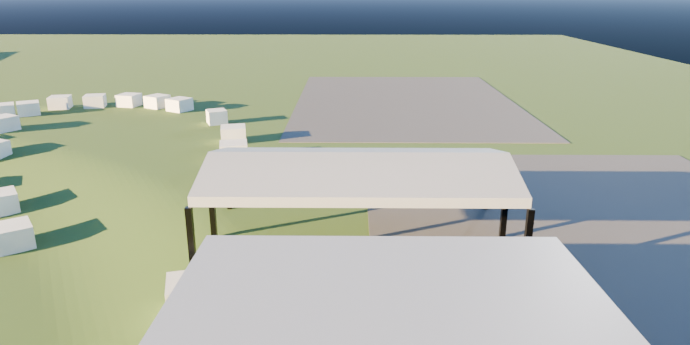
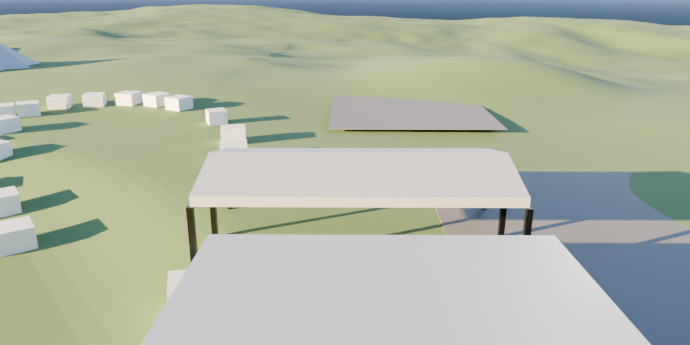
Atualiza os quadros de conferencia com o relevo e os lugares novos
Vinte e dois quadros, um por bloco do roteiro, agora com o terreno medido, o
Recinto de Leiloes, a Pista de Julgamentos e a Fazendinha na cena. A porteira
da Fazendinha passou para a ponta de cima da faixa, que e por onde o percurso
desce -- porteira de destaque na saida nao cumpre o papel.

Claude-Session: https://claude.ai/code/session_01Cr48auUeVceFnmb5xw1uAP

diff --git a/scripts/build_scene.py b/scripts/build_scene.py
@@ -131,7 +131,7 @@ PERCURSO = [
     dict(bloco="12", nome="Expositores Externos", titulo="Expositores Externo",
          altura=30.0, recuo=80.0, pausa=1.5),
     dict(bloco="13", nome="Fazendinha", titulo="Fazendinha",
-         altura=15.0, recuo=45.0, pausa=3.5),
+         altura=20.0, recuo=60.0, alvo=5.0, pausa=3.5),
     dict(bloco="14", nome="Maquinas e Implementos",
          titulo="Exposição de Máquinas", altura=22.0, recuo=70.0, pausa=1.5),
     # Unico bloco sem rotulo e sem titulo: a prancha marca os veiculos so pela
@@ -754,8 +754,12 @@ def construir_fazendinha(dados, col, mats, centro_arena):
 
     # Porteira: dois esteios, travessa e placa. O nome vai grande na placa e a
     # descricao pequena embaixo -- hierarquia pedida nominalmente pelo cliente.
-    frente_x = x - math.sin(ang) * (prof / 2)
-    frente_y = y + math.cos(ang) * (prof / 2)
+    #
+    # Fica na ponta de CIMA da faixa, a que olha para os expositores externos:
+    # e por ali que o percurso desce, e porteira de destaque so cumpre o papel
+    # se estiver na chegada. Na ponta de baixo ela ficaria de costas.
+    frente_x = x + math.sin(ang) * (prof / 2)
+    frente_y = y - math.cos(ang) * (prof / 2)
     solo = elevacao(frente_x, frente_y, centro_arena)
     for sinal in (-1, 1):
         px = frente_x + math.cos(ang) * sinal * (larg / 2)
